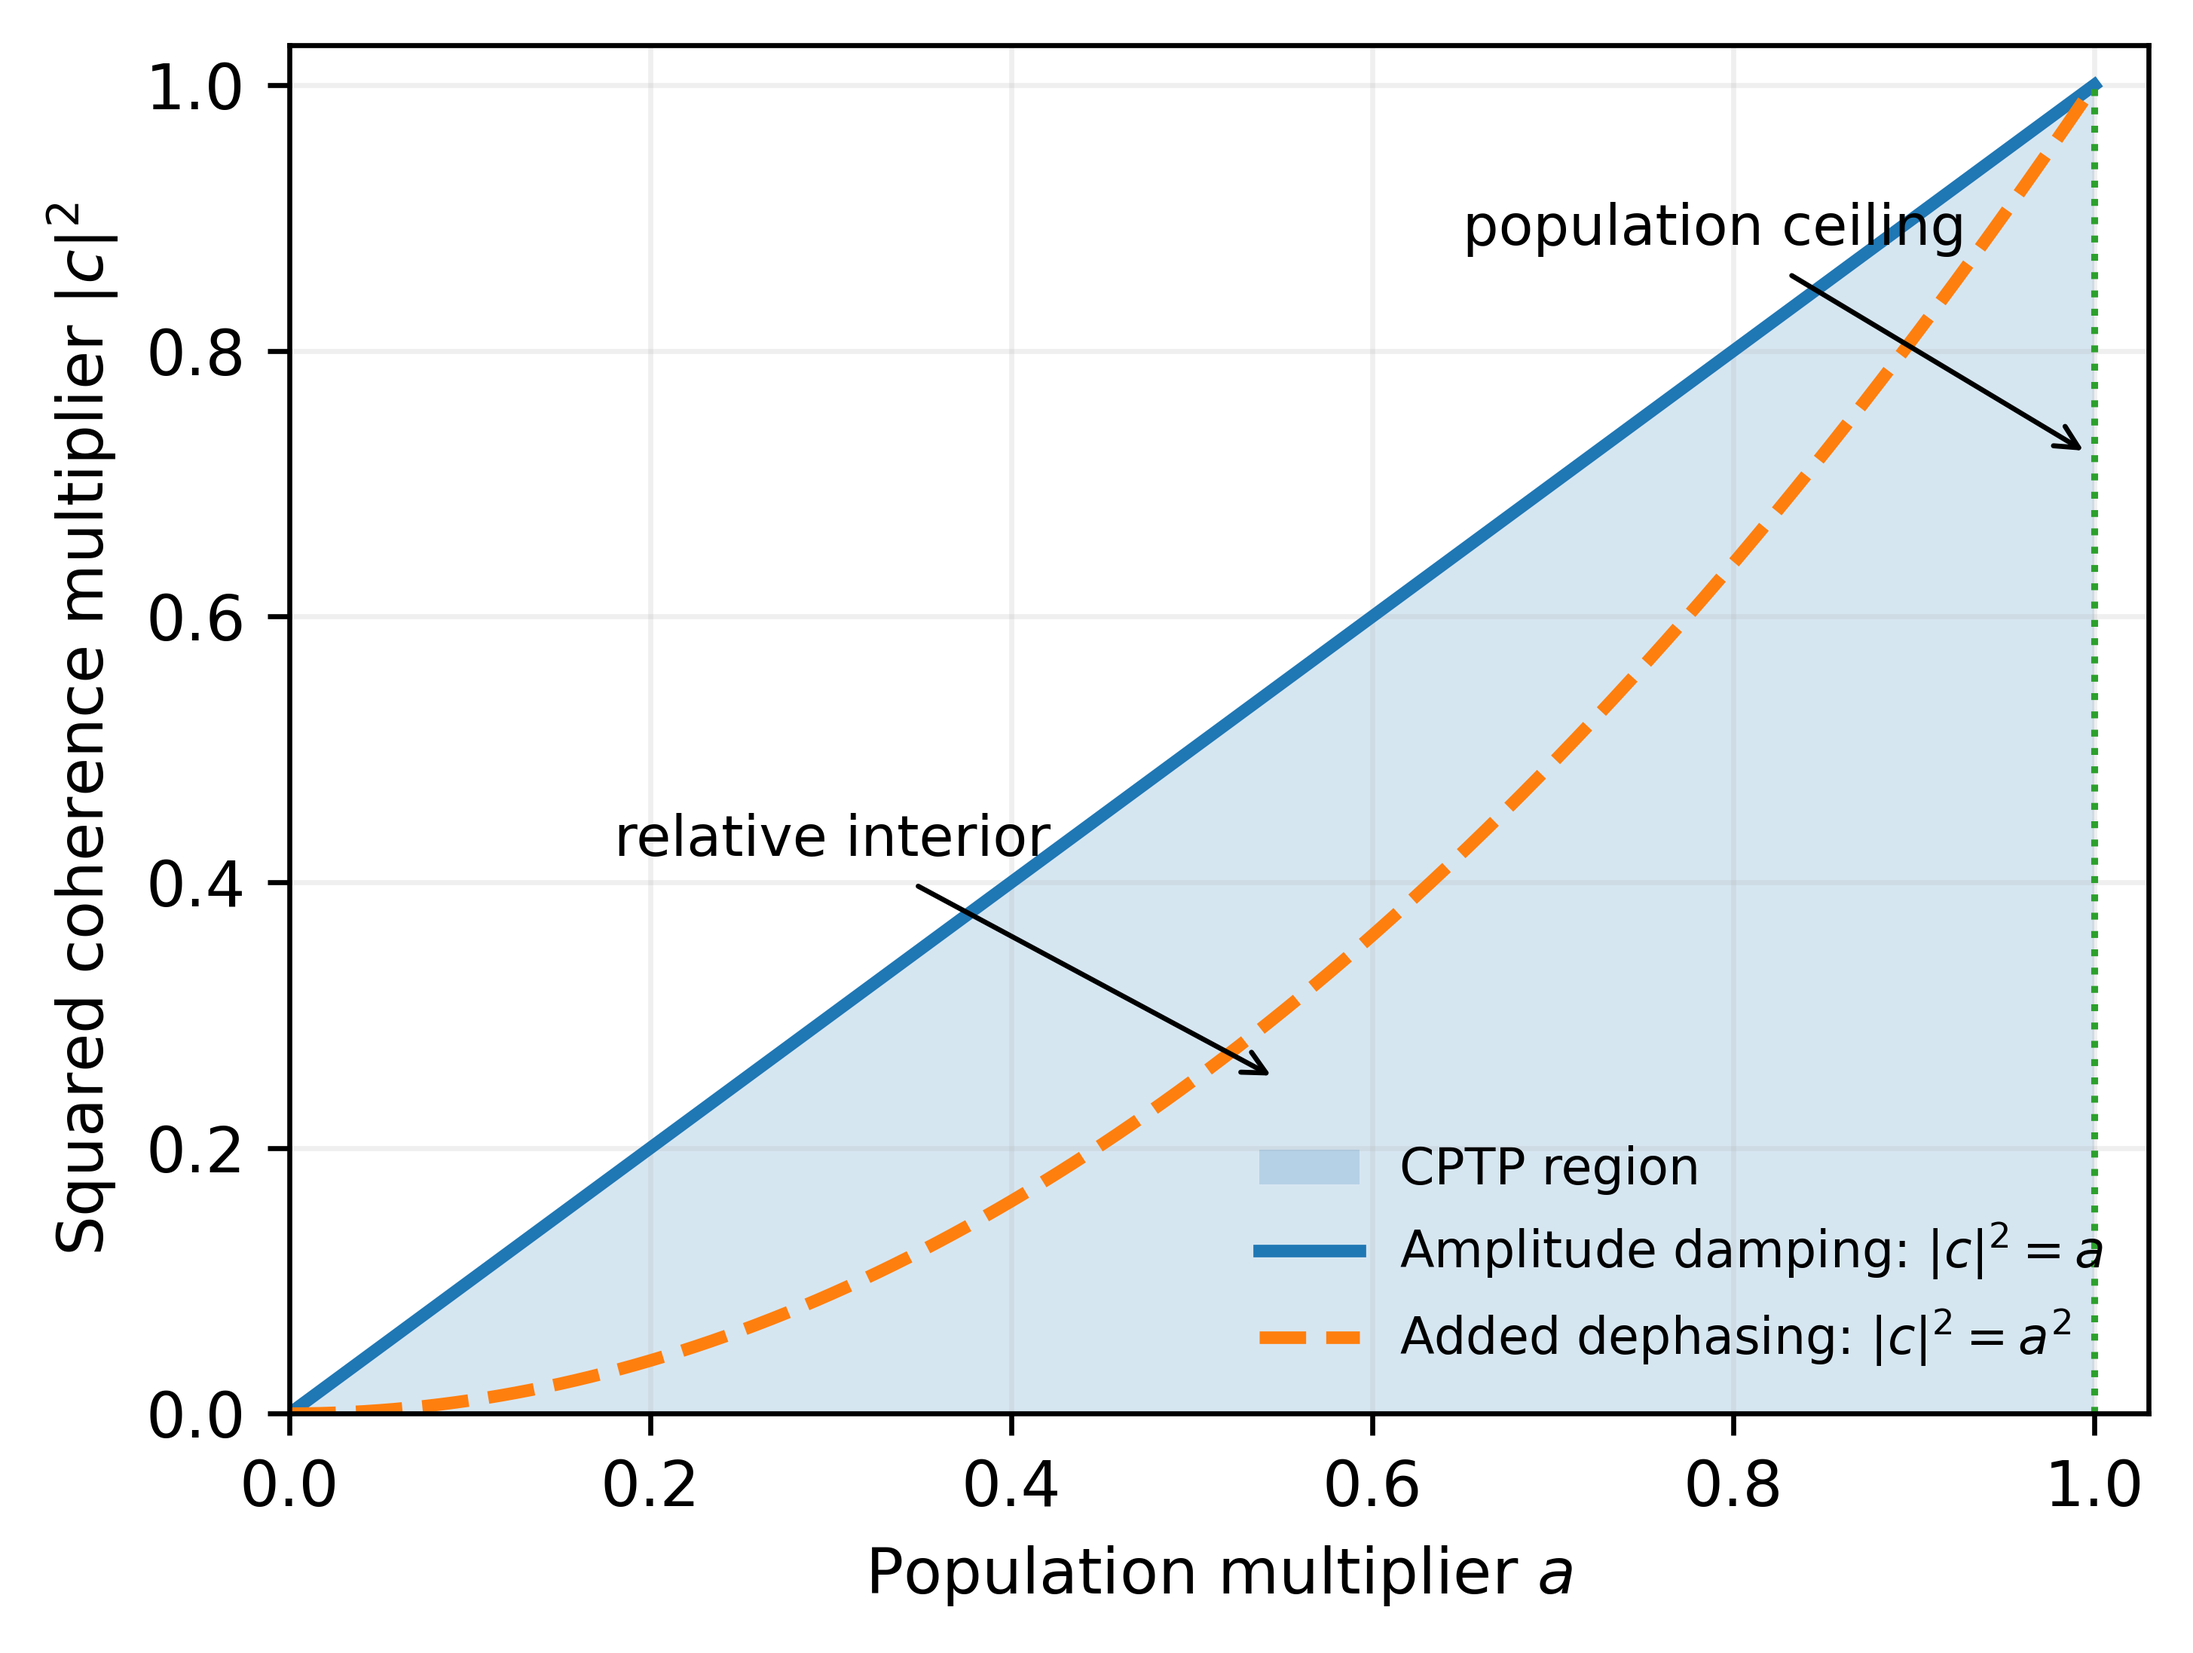
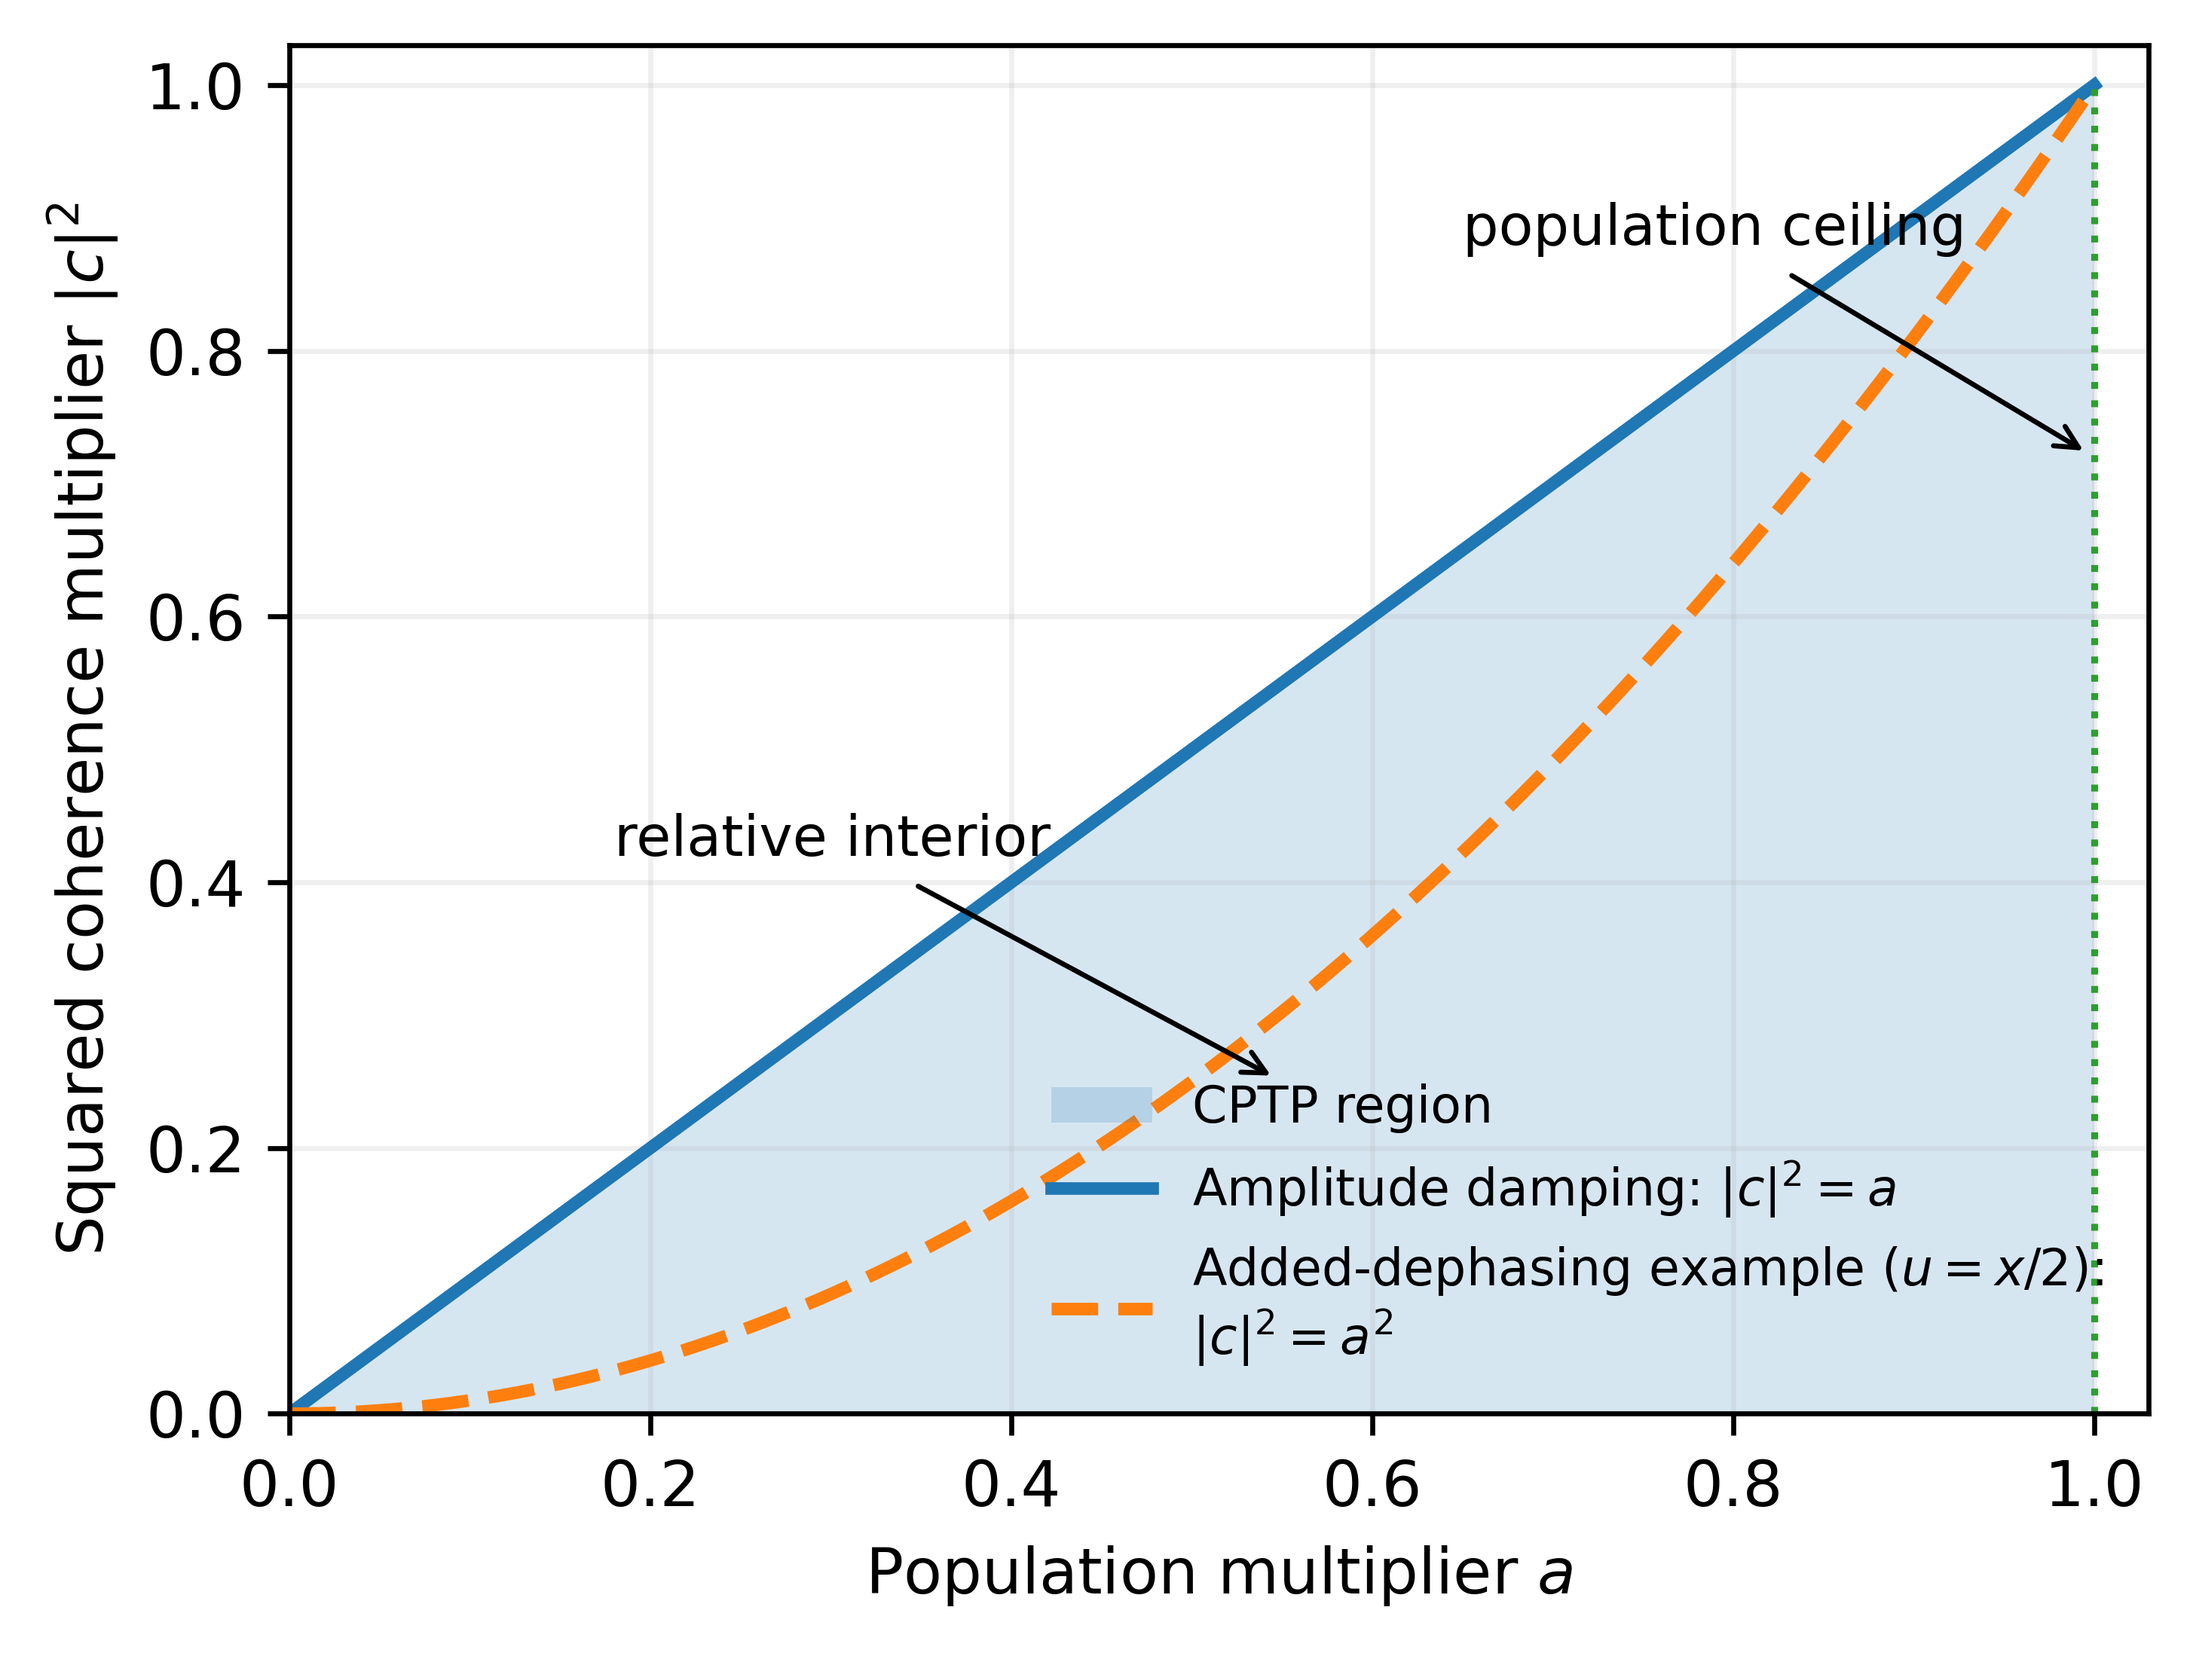
Clarify the Figure 1 dephasing ray

diff --git a/src/reproduce_pla_results.py b/src/reproduce_pla_results.py
@@ -649,7 +649,13 @@ def figure_cp_geometry(output_root: Path) -> None:
     fig, ax = plt.subplots(figsize=(5.0, 3.8))
     ax.fill_between(a_values, 0, a_values, alpha=0.18, label="CPTP region")
     ax.plot(a_values, a_values, linewidth=2.0, label=r"Amplitude damping: $|c|^2=a$")
-    ax.plot(a_values, a_values**2, linewidth=2.0, linestyle="--", label=r"Added dephasing: $|c|^2=a^2$")
+    ax.plot(
+        a_values,
+        a_values**2,
+        linewidth=2.0,
+        linestyle="--",
+        label="Added-dephasing example ($u=x/2$):\n$|c|^2=a^2$",
+    )
     ax.plot([1, 1], [0, 1], linewidth=1.1, linestyle=":")
     ax.annotate(
         "population ceiling",
